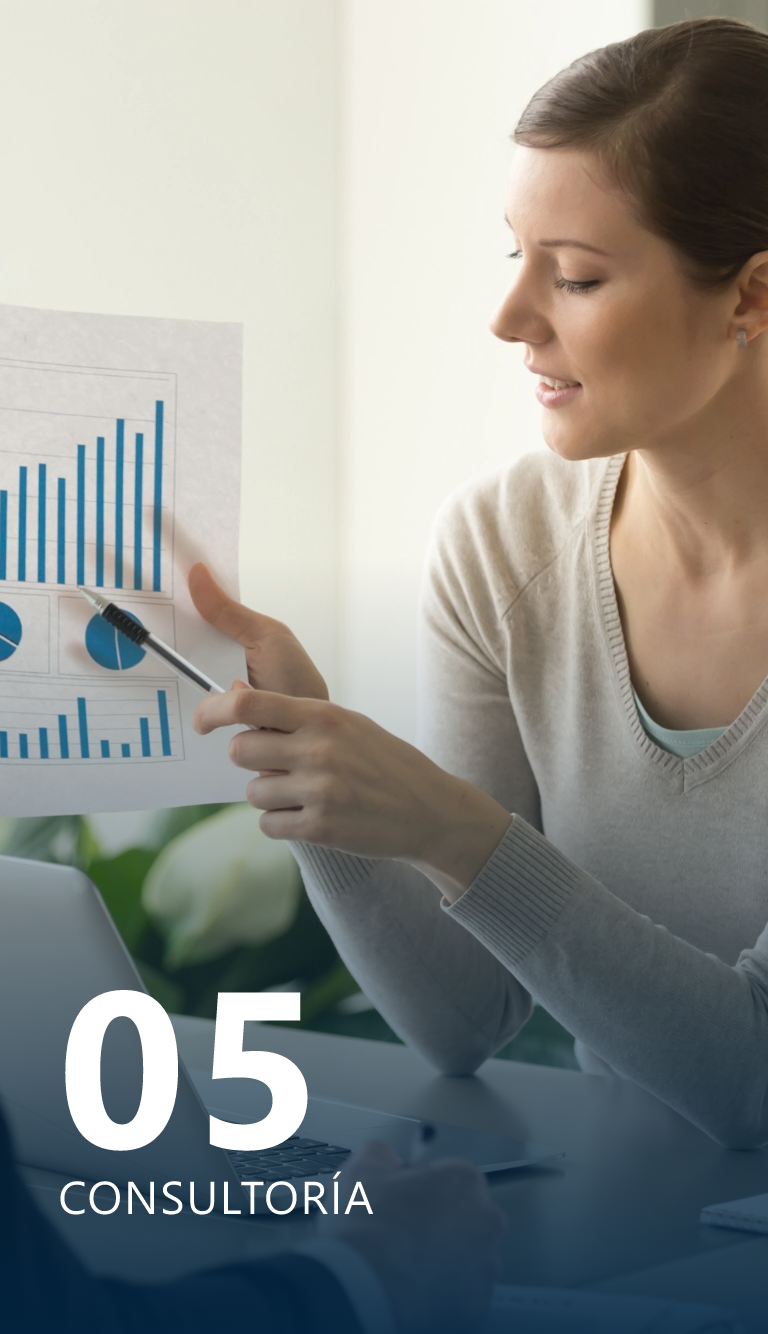
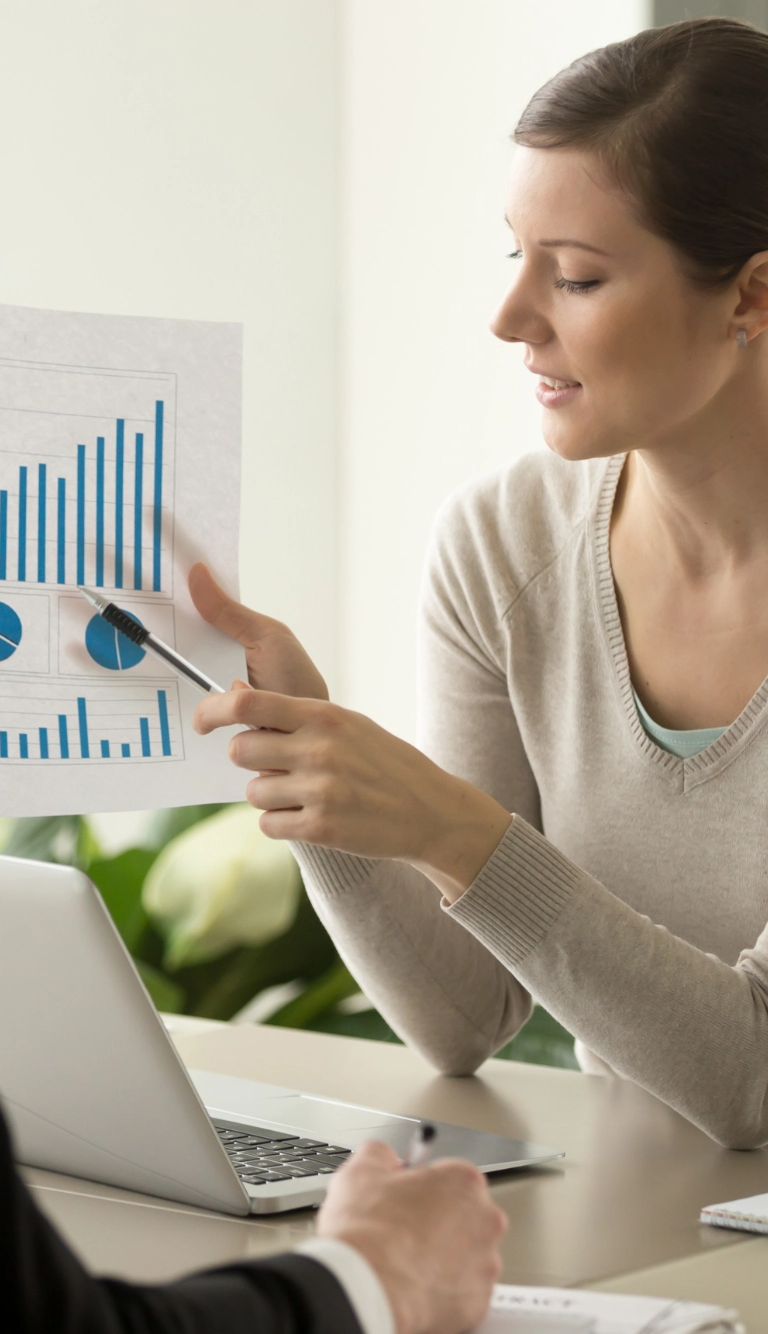
Empece con los cambios a los procesos de implement

diff --git a/src/app/versiones/proceso-implementacion/proceso-implementacion.component.html b/src/app/versiones/proceso-implementacion/proceso-implementacion.component.html
@@ -6,9 +6,18 @@
             </div>
         </div>
         <div class="row images-row">
-            <div class="col-md imageColumn d-flex align-items-center justify-content-center"
+            <div class="col-md imageColumn d-flex align-items-center justify-content-center" style="position: relative;"
                 *ngFor="let processInformation of processList">
                 <img class="process-image" src="{{processInformation.imageSrc}}">
+                <!-- Div con el texto -->
+                <div class="text-container" style="position: absolute;">
+                    <div class="text-information">
+                        <!-- Numero de proceso -->
+                        <p class="process-number">{{processInformation.processNumber}}</p>
+                        <!-- Nombre del proceso -->
+                        <p class="process-name">{{processInformation.processName}}</p>
+                    </div>
+                </div>
             </div>
             <!-- <div class="col-12 d-none d-lg-block" style="height:2%; color:#AFD625"></div> -->
         </div>

diff --git a/src/app/versiones/proceso-implementacion/proceso-implementacion.component.css b/src/app/versiones/proceso-implementacion/proceso-implementacion.component.css
@@ -21,6 +21,38 @@
   object-fit: cover;
 }
 
+.text-container {
+  width: 100%;
+  height: 40%;
+  padding: 8% 7% 0% 0%;
+  bottom: 0;
+  left: 0;
+  transform: matrix(-1, 0, 0, -1, 0, 0);
+  background: transparent linear-gradient(180deg, #022644 0%, #02264400 100%) 0%
+    0% no-repeat padding-box;
+  opacity: 1;
+}
+
+.text-information {
+  transform: matrix(-1, 0, 0, -1, 0, 0);
+}
+
+.process-number {
+  display: inline-block;
+  color: #ffffff;
+  font-size: 111px;
+  font-weight: bold;
+  margin: 0;
+  letter-spacing: 3.44pt;
+}
+
+.process-name {
+  color: #ffffff;
+  font-size: 25px;
+  margin: 0;
+  padding-bottom: 5%;
+  letter-spacing: 0.72px;
+}
 @media (max-width: 991px) {
   .imageColumn {
     max-height: 800px;
@@ -45,6 +77,12 @@
 }
 
 @media (max-width: 700px) {
+  .process-number {
+    font-size: 86px;
+  }
+  .process-name {
+    font-size: 18px;
+  }
   .title-column {
     padding: 15% 7%;
   }
